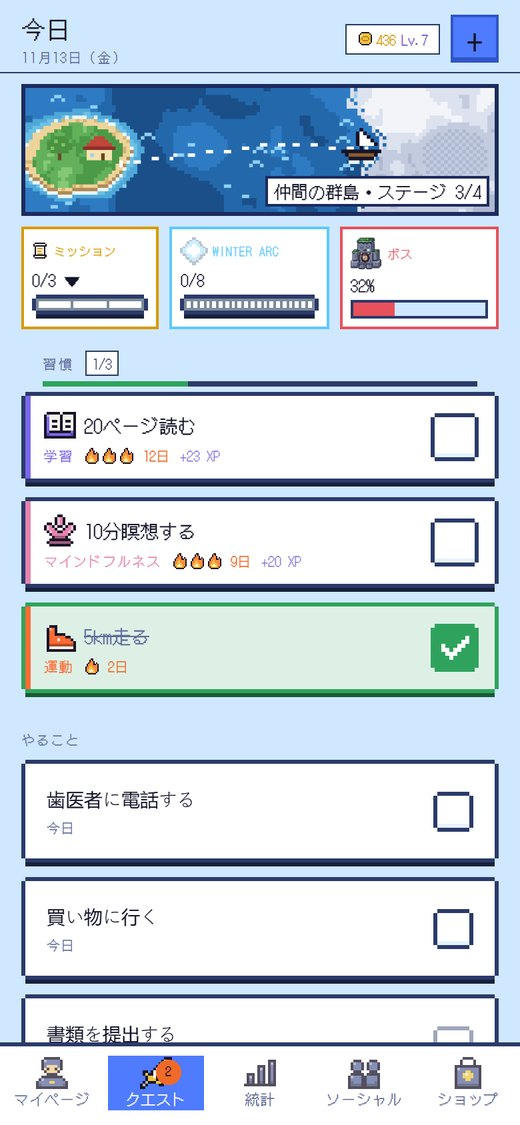
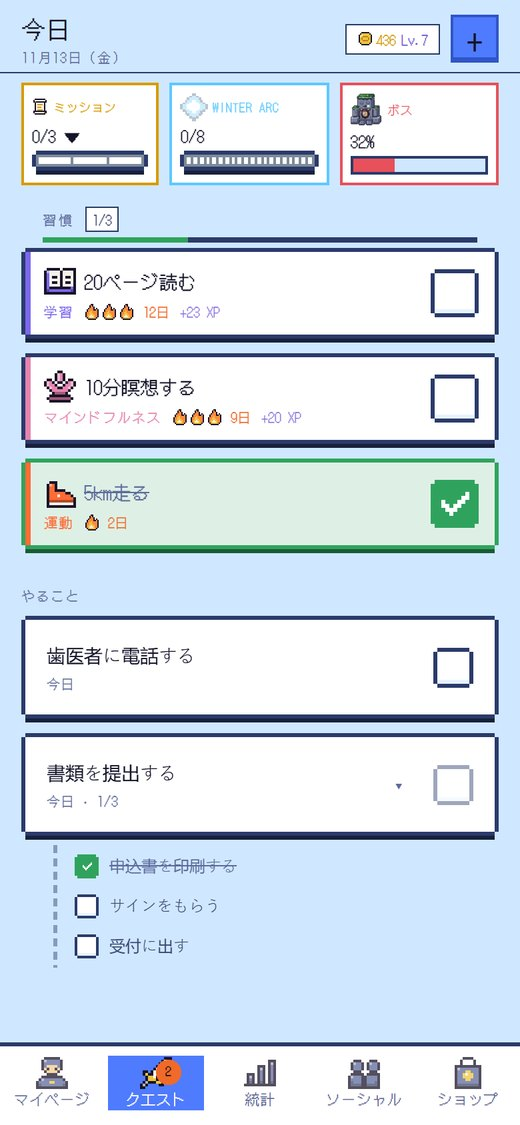
site: update from habitquest 9eb7c00

diff --git a/docs/assets/v2/site-v2.css b/docs/assets/v2/site-v2.css
@@ -62,25 +62,10 @@ body::before { content: ""; position: fixed; inset: 0 0 auto; height: env(safe-a
 .hero .ctas { display: flex; gap: 14px; flex-wrap: wrap; align-items: center; }
 .hero .ctas .btn { font-size: 28px; }
 .hero .ctas small { font-size: 14px; color: var(--soft); }
-/* the boat sits on the dotted route of the painted sea, as in the mockup */
-.voyager { position: absolute; left: 31%; top: 16%; z-index: 3; display: flex; flex-direction: column; align-items: center; gap: 6px; animation: bob 2.4s steps(4) infinite; }
 @keyframes bob { 0%, 100% { transform: translateY(0); } 50% { transform: translateY(-7px); } }
-.quest { position: relative; display: flex; align-items: center; gap: 10px; font-family: var(--pixel); font-size: 22px; background: #ffffff; border: 3px solid var(--ink); box-shadow: 4px 4px 0 var(--ink); padding: 3px 12px; white-space: nowrap; }
-.quest .box { width: 22px; height: 22px; border: 3px solid var(--ink); background: #ffffff; display: grid; place-items: center; transition: background .15s steps(2); }
-.quest .box svg { opacity: 0; }
-.quest.done .box { background: var(--green); }
-.quest.done .box svg { opacity: 1; }
-.quest.done .name { text-decoration: line-through; color: var(--soft); }
-.quest .gain { color: var(--gold-dk); }
-.quest.done .gain { visibility: hidden; }
-.xpfloat { position: absolute; right: 10px; top: -4px; font-family: var(--pixel); font-size: 26px; color: var(--gold-dk); text-shadow: 2px 2px 0 #ffffff; opacity: 0; pointer-events: none; }
-.xpfloat.go { animation: rise 1.1s steps(8) forwards; }
 @keyframes rise { 0% { opacity: 1; transform: translateY(0); } 100% { opacity: 0; transform: translateY(-40px); } }
-.voyager img { width: 99px; height: 90px; }
-@media (max-width: 1100px) and (min-width: 761px) { .voyager { left: 64%; top: 10%; } }
 @media (max-width: 760px) {
   .hero { min-height: 600px; background-position: 30% center; }
-  .voyager { left: 50%; top: 24px; transform: translateX(-50%); animation: none; }
 }
 
 /* ---------- trust strip ---------- */

diff --git a/docs/ja/index.html b/docs/ja/index.html
@@ -48,13 +48,6 @@
         <div class="ctas"><a class="btn" href="https://habitquest.expo.app">冒険をはじめる</a><small>無料 · ブラウザですぐにプレイ</small></div>
       </div>
     </div>
-    <div class="voyager" aria-hidden="true">
-      <div class="quest" id="quest" data-quests="[[&quot;20ページ読む&quot;,15],[&quot;10分瞑想する&quot;,12],[&quot;5km走る&quot;,20]]">
-        <span class="box"><svg width="14" height="14" viewBox="0 0 7 7" aria-hidden="true"><path d="M6 1h1v1H6zM5 2h1v1H5zM4 3h1v1H4zM0 3h1v1H0zM1 4h1v1H1zM3 4h1v1H3zM2 5h1v1H2z" fill="#ffffff"></path></svg></span><span class="name" id="qname">20ページ読む</span> <span class="gain" id="qgain">+15 XP</span>
-        <span class="xpfloat" id="xpf">+15 XP</span>
-      </div>
-      <img src="../assets/v2/boat.png" alt="">
-    </div>
   </section>
 
   <div class="trust">
@@ -71,7 +64,7 @@
     <h2>リアルな習慣が、きみのクエスト</h2>
     <div class="steps">
       <div class="step rv">
-        <div class="phone tilt"><img class="shot" src="../assets/v2/ja/today.jpg" alt="今日のクエスト画面：3つの習慣とやることリスト" width="520" height="1125"></div>
+        <div class="phone tilt"><img class="shot" src="../assets/v2/ja/today.jpg" alt="今日のクエスト画面：3つの習慣と、ステップつきのやること" width="520" height="1125"></div>
         <span class="num">1</span><h3>習慣をえらぶ</h3><p>読書、ランニング、早寝：続けたいことを自由に。単発のことはやることリストへ。</p>
       </div>
       <div class="step rv">

diff --git a/docs/fr/index.html b/docs/fr/index.html
@@ -48,13 +48,6 @@
         <div class="ctas"><a class="btn" href="https://habitquest.expo.app">Commencer l’aventure</a><small>Gratuit · jouable tout de suite dans ton navigateur</small></div>
       </div>
     </div>
-    <div class="voyager" aria-hidden="true">
-      <div class="quest" id="quest" data-quests="[[&quot;Lire 20 pages&quot;,15],[&quot;Méditer 10 min&quot;,12],[&quot;Courir 5 km&quot;,20]]">
-        <span class="box"><svg width="14" height="14" viewBox="0 0 7 7" aria-hidden="true"><path d="M6 1h1v1H6zM5 2h1v1H5zM4 3h1v1H4zM0 3h1v1H0zM1 4h1v1H1zM3 4h1v1H3zM2 5h1v1H2z" fill="#ffffff"></path></svg></span><span class="name" id="qname">Lire 20 pages</span> <span class="gain" id="qgain">+15 XP</span>
-        <span class="xpfloat" id="xpf">+15 XP</span>
-      </div>
-      <img src="../assets/v2/boat.png" alt="">
-    </div>
   </section>
 
   <div class="trust">
@@ -71,7 +64,7 @@
     <h2>Tes vraies habitudes sont tes quêtes</h2>
     <div class="steps">
       <div class="step rv">
-        <div class="phone tilt"><img class="shot" src="../assets/v2/fr/today.jpg" alt="L’écran des quêtes du jour : trois habitudes et des tâches à faire" width="520" height="1125"></div>
+        <div class="phone tilt"><img class="shot" src="../assets/v2/fr/today.jpg" alt="L’écran des quêtes du jour : trois habitudes et une tâche à faire avec ses étapes" width="520" height="1125"></div>
         <span class="num">1</span><h3>Choisis tes habitudes</h3><p>Lire, courir, dormir plus tôt : ce que toi, tu veux tenir. Et une liste de tâches pour le ponctuel.</p>
       </div>
       <div class="step rv">

diff --git a/docs/ko/index.html b/docs/ko/index.html
@@ -49,13 +49,6 @@
         <div class="ctas"><a class="btn" href="https://habitquest.expo.app">모험 시작하기</a><small>무료 · 브라우저에서 바로 플레이</small></div>
       </div>
     </div>
-    <div class="voyager" aria-hidden="true">
-      <div class="quest" id="quest" data-quests="[[&quot;20쪽 읽기&quot;,15],[&quot;10분 명상&quot;,12],[&quot;5km 달리기&quot;,20]]">
-        <span class="box"><svg width="14" height="14" viewBox="0 0 7 7" aria-hidden="true"><path d="M6 1h1v1H6zM5 2h1v1H5zM4 3h1v1H4zM0 3h1v1H0zM1 4h1v1H1zM3 4h1v1H3zM2 5h1v1H2z" fill="#ffffff"></path></svg></span><span class="name" id="qname">20쪽 읽기</span> <span class="gain" id="qgain">+15 XP</span>
-        <span class="xpfloat" id="xpf">+15 XP</span>
-      </div>
-      <img src="../assets/v2/boat.png" alt="">
-    </div>
   </section>
 
   <div class="trust">
@@ -72,7 +65,7 @@
     <h2>진짜 습관이 너의 퀘스트</h2>
     <div class="steps">
       <div class="step rv">
-        <div class="phone tilt"><img class="shot" src="../assets/v2/ko/today.jpg" alt="오늘의 퀘스트 화면: 습관 세 개와 할 일 목록" width="520" height="1125"></div>
+        <div class="phone tilt"><img class="shot" src="../assets/v2/ko/today.jpg" alt="오늘의 퀘스트 화면: 습관 세 개와 단계가 있는 할 일" width="520" height="1125"></div>
         <span class="num">1</span><h3>습관 고르기</h3><p>독서, 달리기, 일찍 자기: 지키고 싶은 건 뭐든. 한 번만 할 일은 할 일 목록에.</p>
       </div>
       <div class="step rv">

diff --git a/docs/zh/index.html b/docs/zh/index.html
@@ -48,13 +48,6 @@
         <div class="ctas"><a class="btn" href="https://habitquest.expo.app">開始冒險</a><small>免費 · 在瀏覽器裡馬上玩</small></div>
       </div>
     </div>
-    <div class="voyager" aria-hidden="true">
-      <div class="quest" id="quest" data-quests="[[&quot;讀 20 頁&quot;,15],[&quot;冥想 10 分鐘&quot;,12],[&quot;跑 5 公里&quot;,20]]">
-        <span class="box"><svg width="14" height="14" viewBox="0 0 7 7" aria-hidden="true"><path d="M6 1h1v1H6zM5 2h1v1H5zM4 3h1v1H4zM0 3h1v1H0zM1 4h1v1H1zM3 4h1v1H3zM2 5h1v1H2z" fill="#ffffff"></path></svg></span><span class="name" id="qname">讀 20 頁</span> <span class="gain" id="qgain">+15 XP</span>
-        <span class="xpfloat" id="xpf">+15 XP</span>
-      </div>
-      <img src="../assets/v2/boat.png" alt="">
-    </div>
   </section>
 
   <div class="trust">
@@ -71,7 +64,7 @@
     <h2>真實的習慣，就是你的任務</h2>
     <div class="steps">
       <div class="step rv">
-        <div class="phone tilt"><img class="shot" src="../assets/v2/zh/today.jpg" alt="今日任務畫面：三個習慣和待辦清單" width="520" height="1125"></div>
+        <div class="phone tilt"><img class="shot" src="../assets/v2/zh/today.jpg" alt="今日任務畫面：三個習慣，以及附步驟的待辦事項" width="520" height="1125"></div>
         <span class="num">1</span><h3>選擇你的習慣</h3><p>閱讀、跑步、早點睡：想堅持什麼都可以。一次性的事放進待辦清單。</p>
       </div>
       <div class="step rv">

diff --git a/docs/index.html b/docs/index.html
@@ -48,13 +48,6 @@
         <div class="ctas"><a class="btn" href="https://habitquest.expo.app">Start the adventure</a><small>Free · play right now in your browser</small></div>
       </div>
     </div>
-    <div class="voyager" aria-hidden="true">
-      <div class="quest" id="quest" data-quests="[[&quot;Read 20 pages&quot;,15],[&quot;Meditate 10 min&quot;,12],[&quot;Run 5 km&quot;,20]]">
-        <span class="box"><svg width="14" height="14" viewBox="0 0 7 7" aria-hidden="true"><path d="M6 1h1v1H6zM5 2h1v1H5zM4 3h1v1H4zM0 3h1v1H0zM1 4h1v1H1zM3 4h1v1H3zM2 5h1v1H2z" fill="#ffffff"></path></svg></span><span class="name" id="qname">Read 20 pages</span> <span class="gain" id="qgain">+15 XP</span>
-        <span class="xpfloat" id="xpf">+15 XP</span>
-      </div>
-      <img src="assets/v2/boat.png" alt="">
-    </div>
   </section>
 
   <div class="trust">
@@ -71,7 +64,7 @@
     <h2>Your real habits are your quests</h2>
     <div class="steps">
       <div class="step rv">
-        <div class="phone tilt"><img class="shot" src="assets/v2/en/today.jpg" alt="The quests of the day: three habits and a to-do list" width="520" height="1125"></div>
+        <div class="phone tilt"><img class="shot" src="assets/v2/en/today.jpg" alt="The quests of the day: three habits and a to-do with its steps" width="520" height="1125"></div>
         <span class="num">1</span><h3>Pick your habits</h3><p>Read, run, sleep earlier: whatever you want to stick to. Plus a to-do list for one-off tasks.</p>
       </div>
       <div class="step rv">

diff --git a/docs/assets/v2/site-v2.js b/docs/assets/v2/site-v2.js
@@ -15,21 +15,6 @@
   }
   addEventListener('scroll', onScroll, { passive: true }); onScroll();
 
-  // 2. Hero: a quest gets checked, XP floats up, the counters move.
-  let q = document.getElementById('quest');
-  let quests = JSON.parse(q.dataset.quests);
-  let qi = 0;
-  let qn = document.getElementById('qname'), qg = document.getElementById('qgain'), xf = document.getElementById('xpf');
-  function cycle() {
-    q.classList.add('done'); xf.textContent = '+' + quests[qi][1] + ' XP';
-    xf.classList.remove('go'); void xf.offsetWidth; xf.classList.add('go');
-    setTimeout(function () {
-      qi = (qi + 1) % quests.length; q.classList.remove('done');
-      qn.textContent = quests[qi][0]; qg.textContent = '+' + quests[qi][1] + ' XP';
-    }, 2200);
-  }
-  if (!still) { setTimeout(cycle, 900); setInterval(cycle, 3600); }
-
   // 3. Reveal below-the-fold blocks as they come in (everything is visible without script).
   let rv = [].slice.call(document.querySelectorAll('.rv'));
   let once = {};
